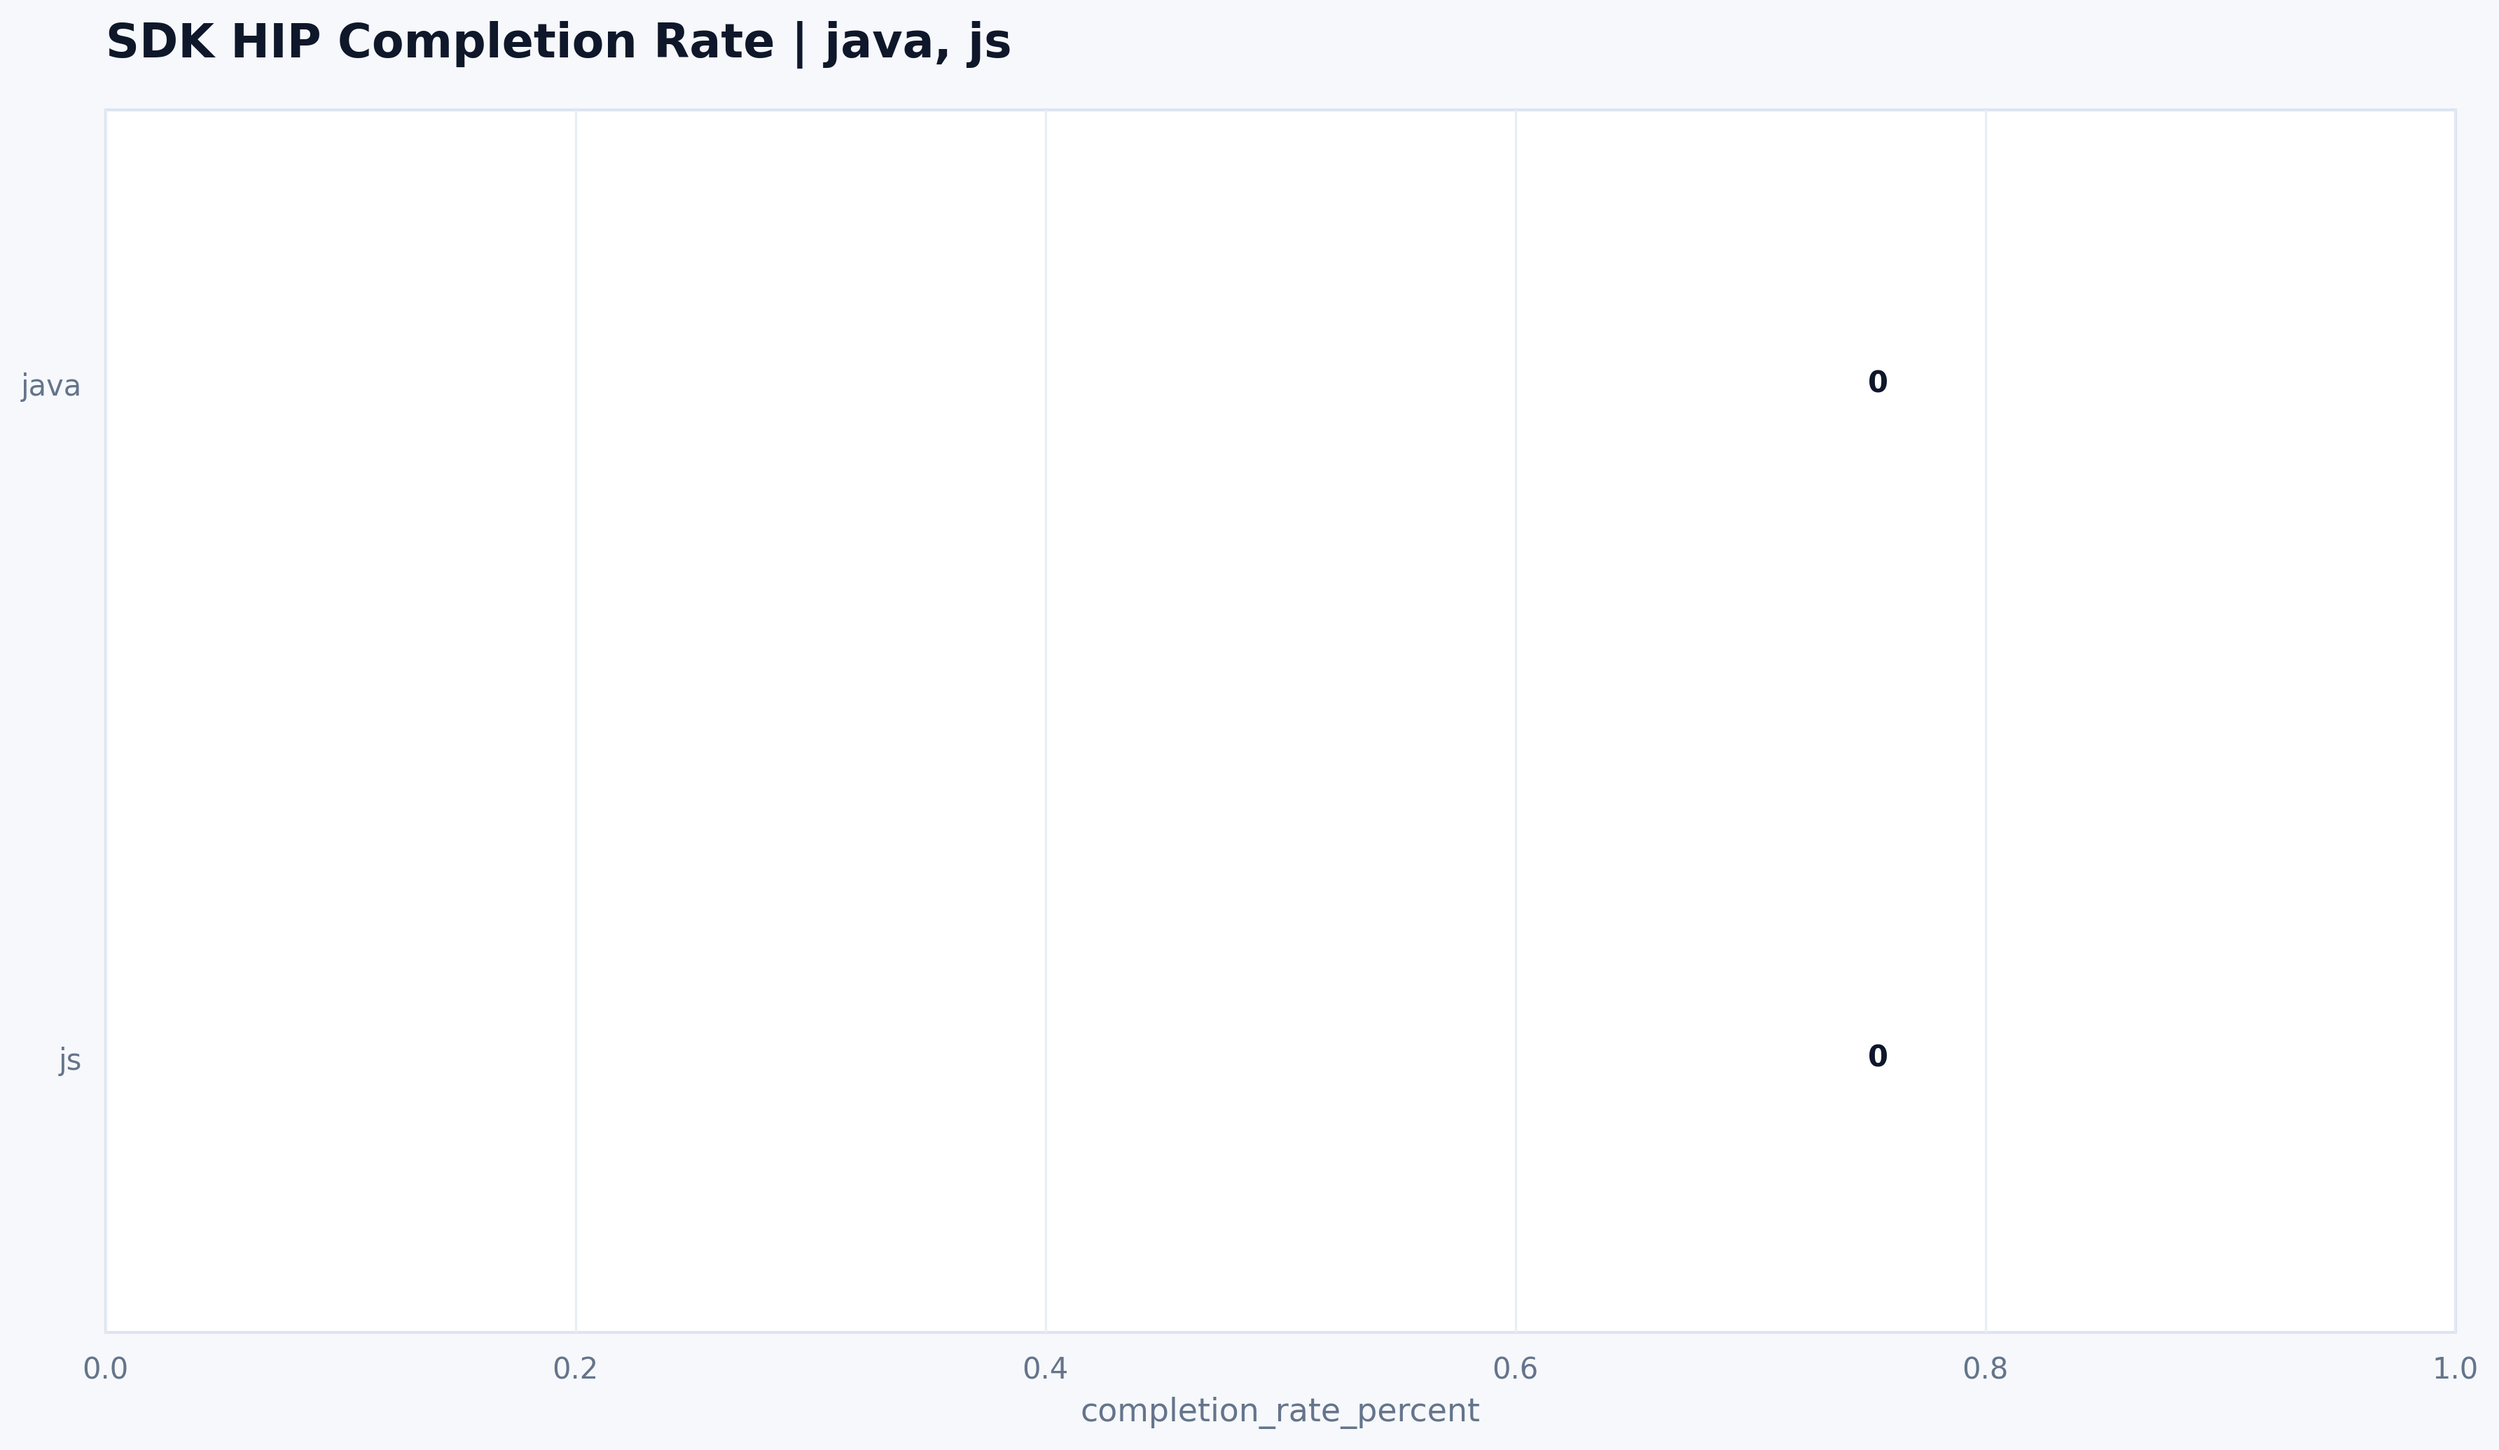
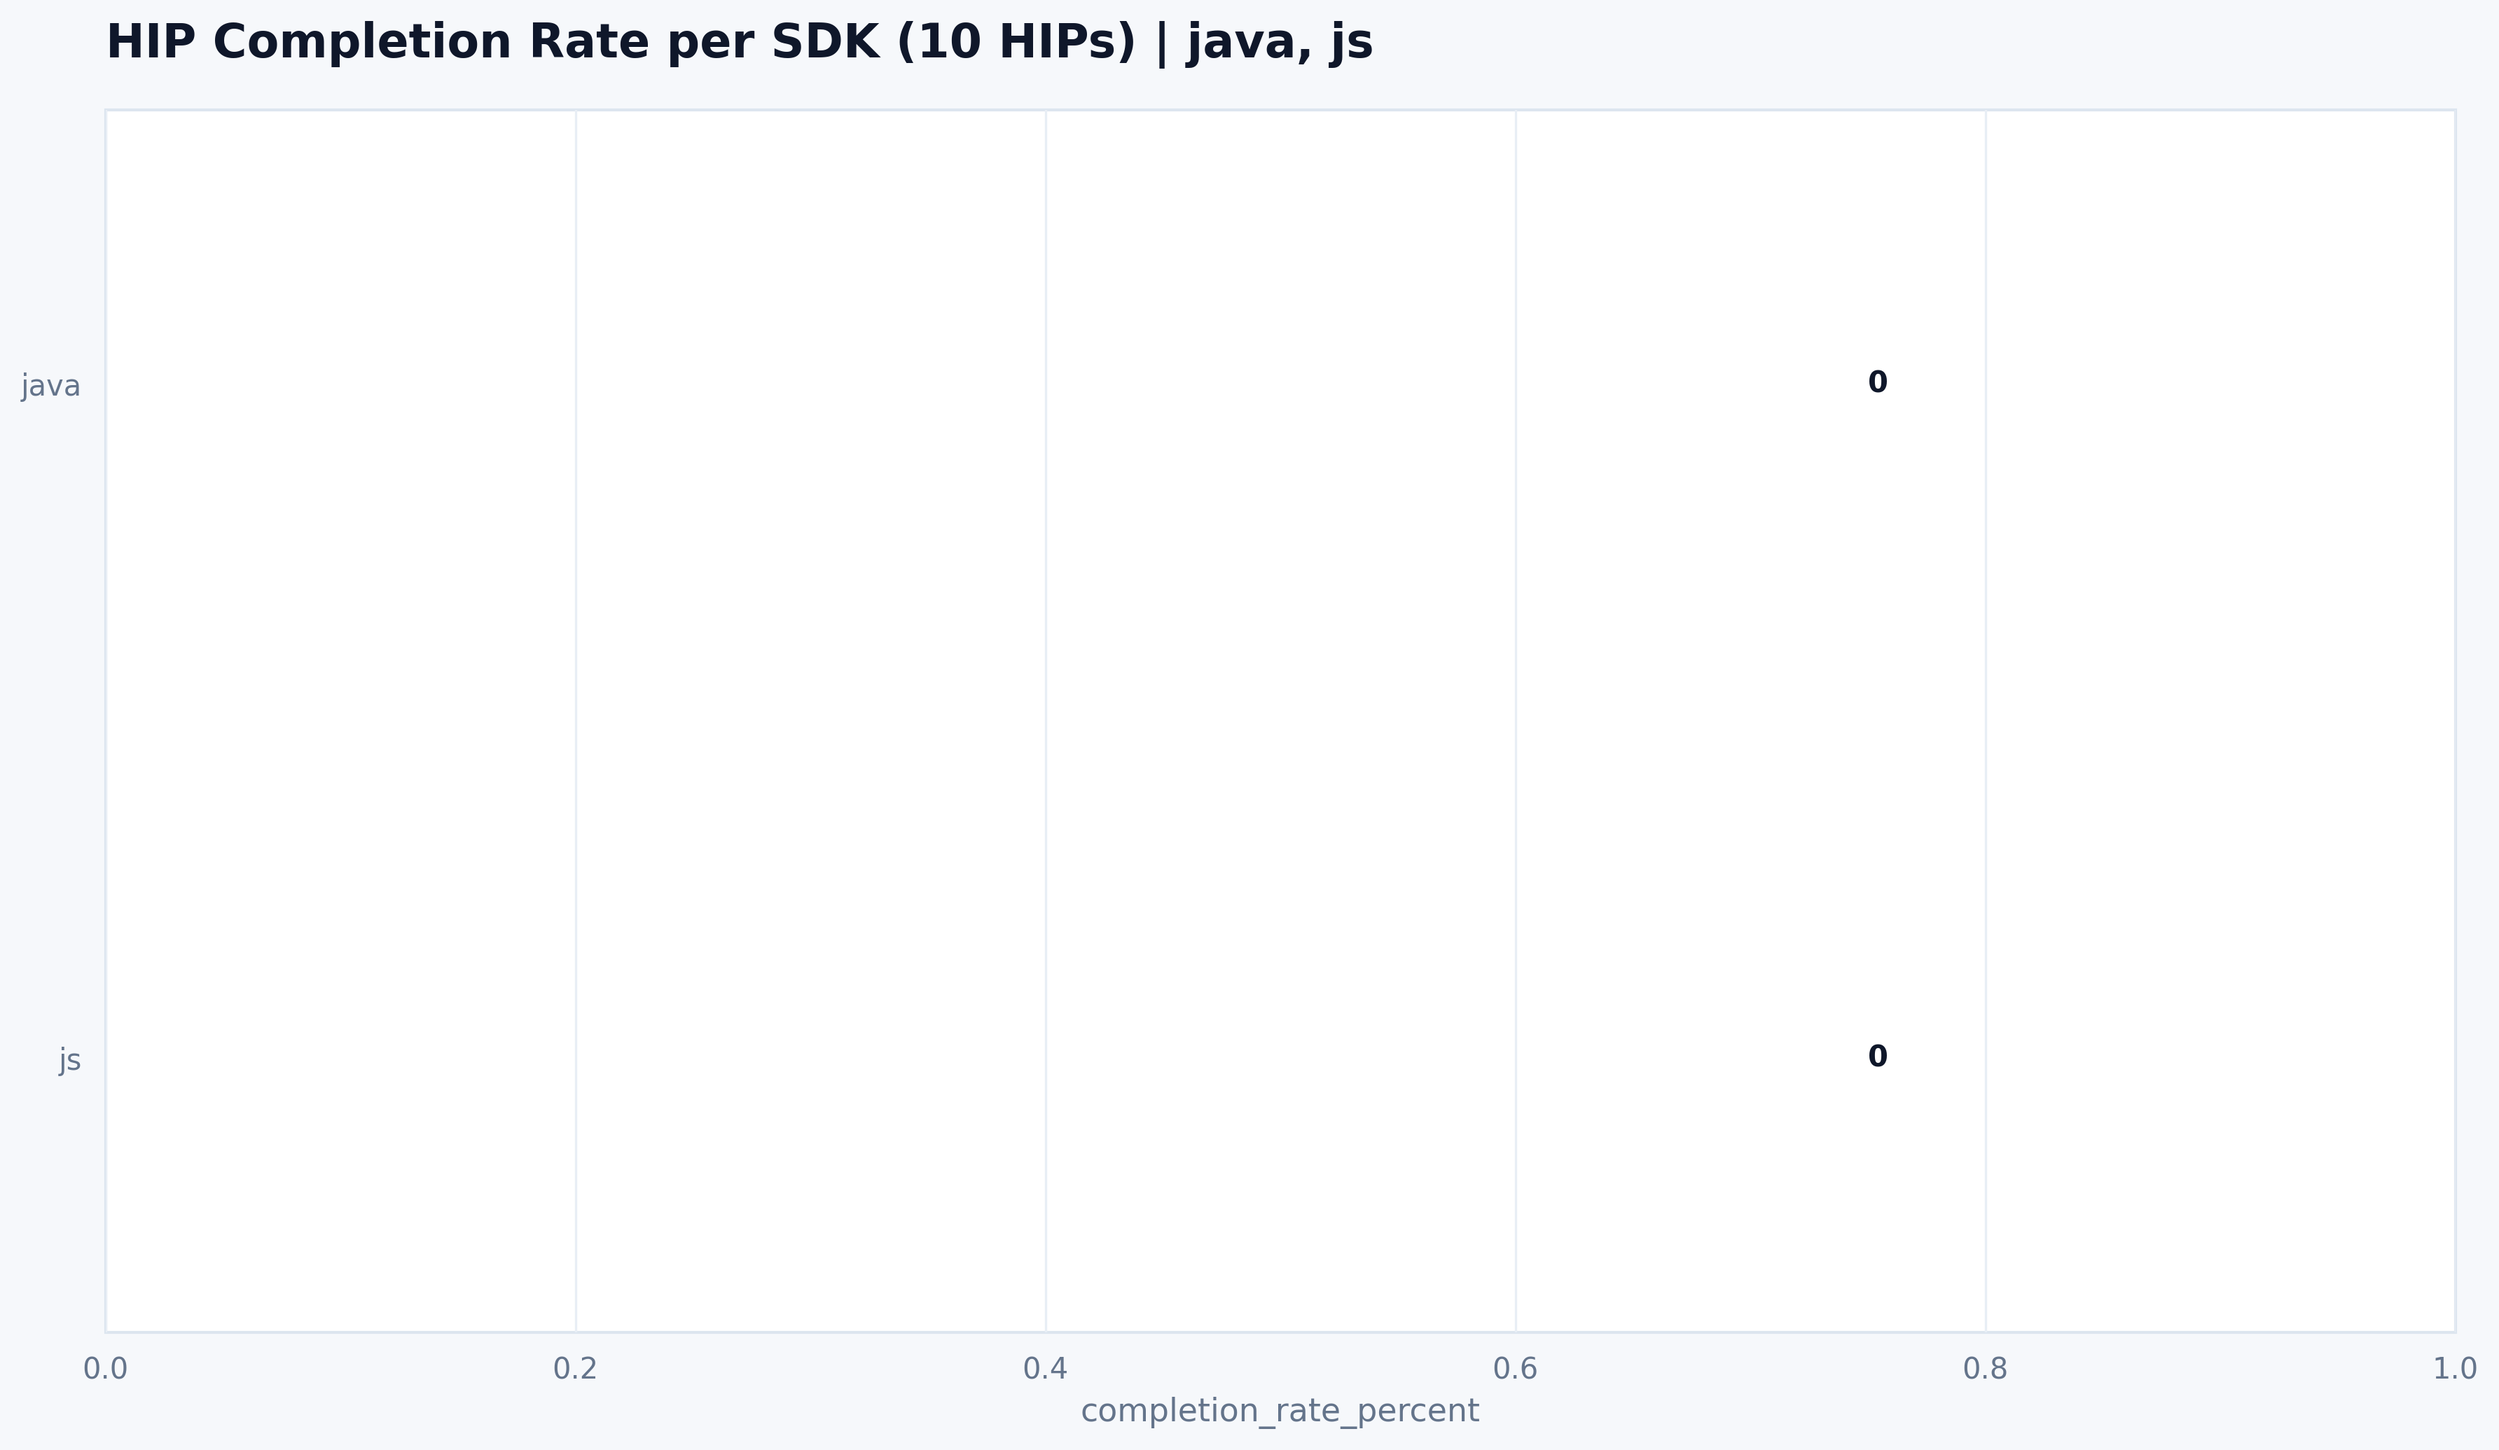
chart titles

Changed region(s): [[0.0311, 0.0, 0.56, 0.0618]]

diff --git a/src/hiero_analytics/export/hip_progression_export.py b/src/hiero_analytics/export/hip_progression_export.py
@@ -317,17 +317,18 @@ def export_hip_progression_results(
             repo_issue_path,
         )
         chart_df = _repo_status_chart_df(repo_statuses)
+        n_hips = len(chart_df)
         if not chart_df.empty:
             plot_stacked_bar(
                 chart_df,
                 x_col="hip_id",
                 stack_cols=PRESENTATION_STATUS_ORDER,
                 labels=PRESENTATION_STATUS_ORDER,
-                title=f"HIP Development Status | {scope_label}",
+                title=f"Development Status per HIP ({n_hips} HIPs) | {scope_label}",
                 output_path=repo_chart_path,
                 colors=STATUS_CHART_COLORS,
                 rotate_x=20,
-                annotate_totals=True,
+                annotate_totals=False,
                 sort_categorical=False,
             )
 
@@ -345,13 +346,14 @@ def export_hip_progression_results(
         save_dataframe(_sdk_rollup_df(repo_statuses, catalog_entries=catalog_entries), sdk_rollup_path)
 
         status_chart_df = _sdk_status_chart_df(repo_statuses)
+        n_hips = len({rs.hip_id for rs in repo_statuses})
         if not status_chart_df.empty:
             plot_stacked_bar(
                 status_chart_df,
                 x_col="sdk",
                 stack_cols=PRESENTATION_STATUS_ORDER,
                 labels=PRESENTATION_STATUS_ORDER,
-                title=f"SDK HIP Development Status | {scope_label}",
+                title=f"HIP Count by Status per SDK ({n_hips} HIPs) | {scope_label}",
                 output_path=sdk_status_chart_path,
                 colors=STATUS_CHART_COLORS,
                 rotate_x=20,
@@ -365,7 +367,7 @@ def export_hip_progression_results(
                 completion_df,
                 x_col="sdk",
                 y_col="completion_rate_percent",
-                title=f"SDK HIP Completion Rate | {scope_label}",
+                title=f"HIP Completion Rate per SDK ({n_hips} HIPs) | {scope_label}",
                 output_path=sdk_completion_chart_path,
                 rotate_x=20,
             )
